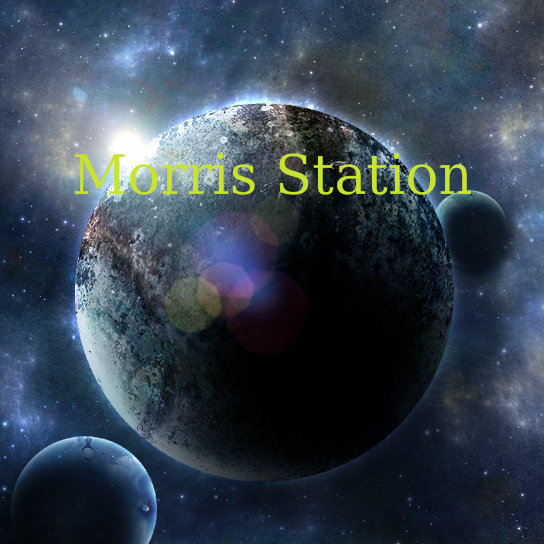
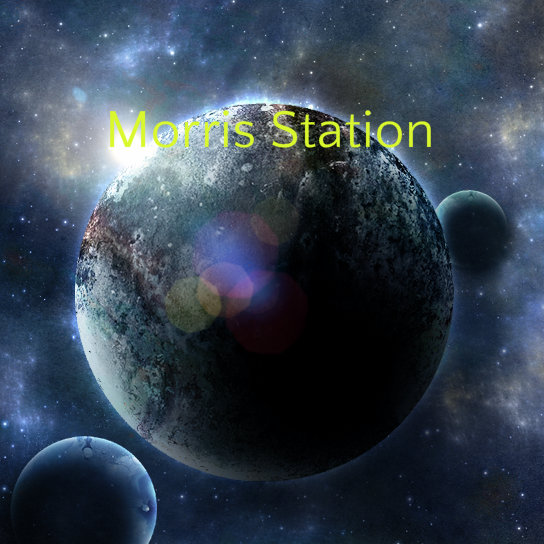
Game starts at IntroScreen now (instead of MainMenu).

Changed region(s): [[0.5, 0.1875, 0.875, 0.375], [0.125, 0.1875, 0.4688, 0.375]]

diff --git a/core/src/com/mygdx/game/MainClass.java b/core/src/com/mygdx/game/MainClass.java
@@ -5,7 +5,9 @@ import com.badlogic.gdx.Application;
 import com.badlogic.gdx.Game;
 import com.badlogic.gdx.Gdx;
 
+import com.badlogic.gdx.scenes.scene2d.Stage;
 import com.mygdx.game.screens.MainMenu;
+import com.testoverlay.IntroScreen;
 
 public class MainClass extends Game {
     private Game game;
@@ -21,7 +23,7 @@ public class MainClass extends Game {
     @Override
     public void create() {
         Gdx.app.setLogLevel(Application.LOG_DEBUG);
-        setScreen(new MainMenu(this));
+        setScreen(new IntroScreen(new Stage(), this));
     }
 
     public void render() {

diff --git a/core/src/com/testoverlay/IntroScreen.java b/core/src/com/testoverlay/IntroScreen.java
@@ -58,7 +58,7 @@ public class IntroScreen extends DefaultScreen implements InputProcessor {
         introText.setFontScale(2);
 
         background = new SpriteBatch();
-        backgroundImage = new Texture(Gdx.files.internal("android/assets/background/planets.png"));
+        backgroundImage = new Texture(Gdx.files.internal("android/assets/background/planetsWithTitle.jpg"));
 
         play.addListener(playListener);
 
